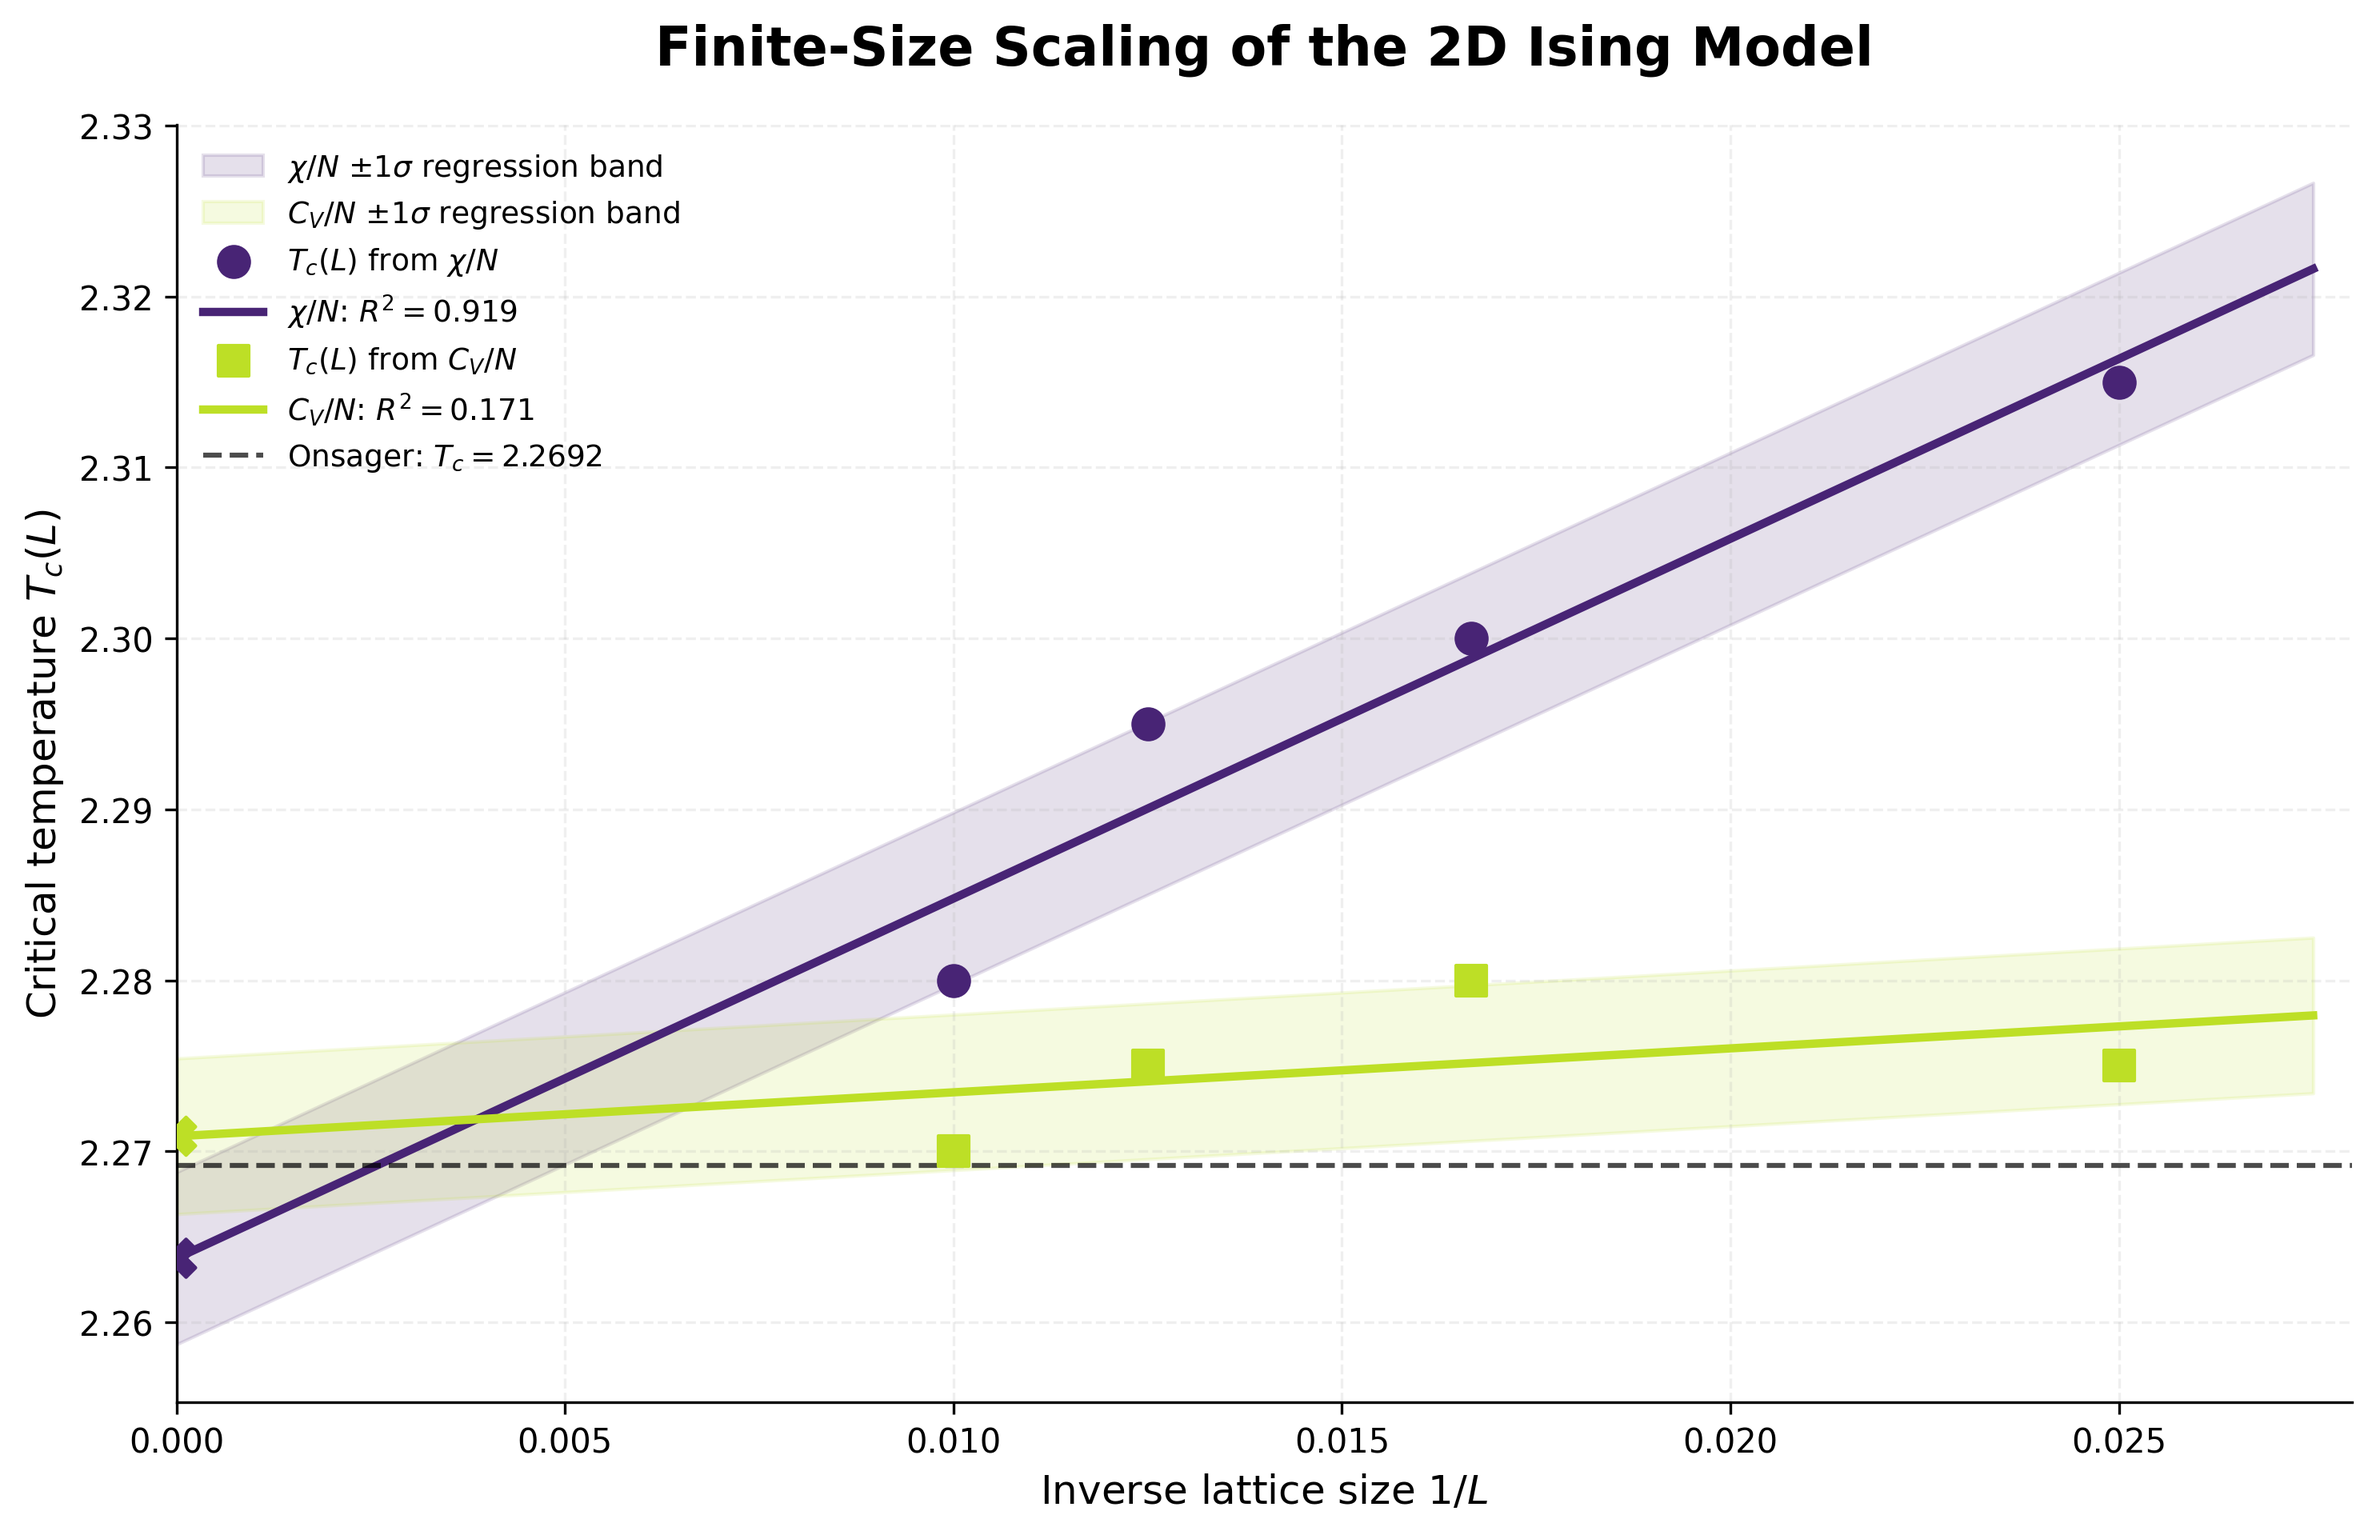
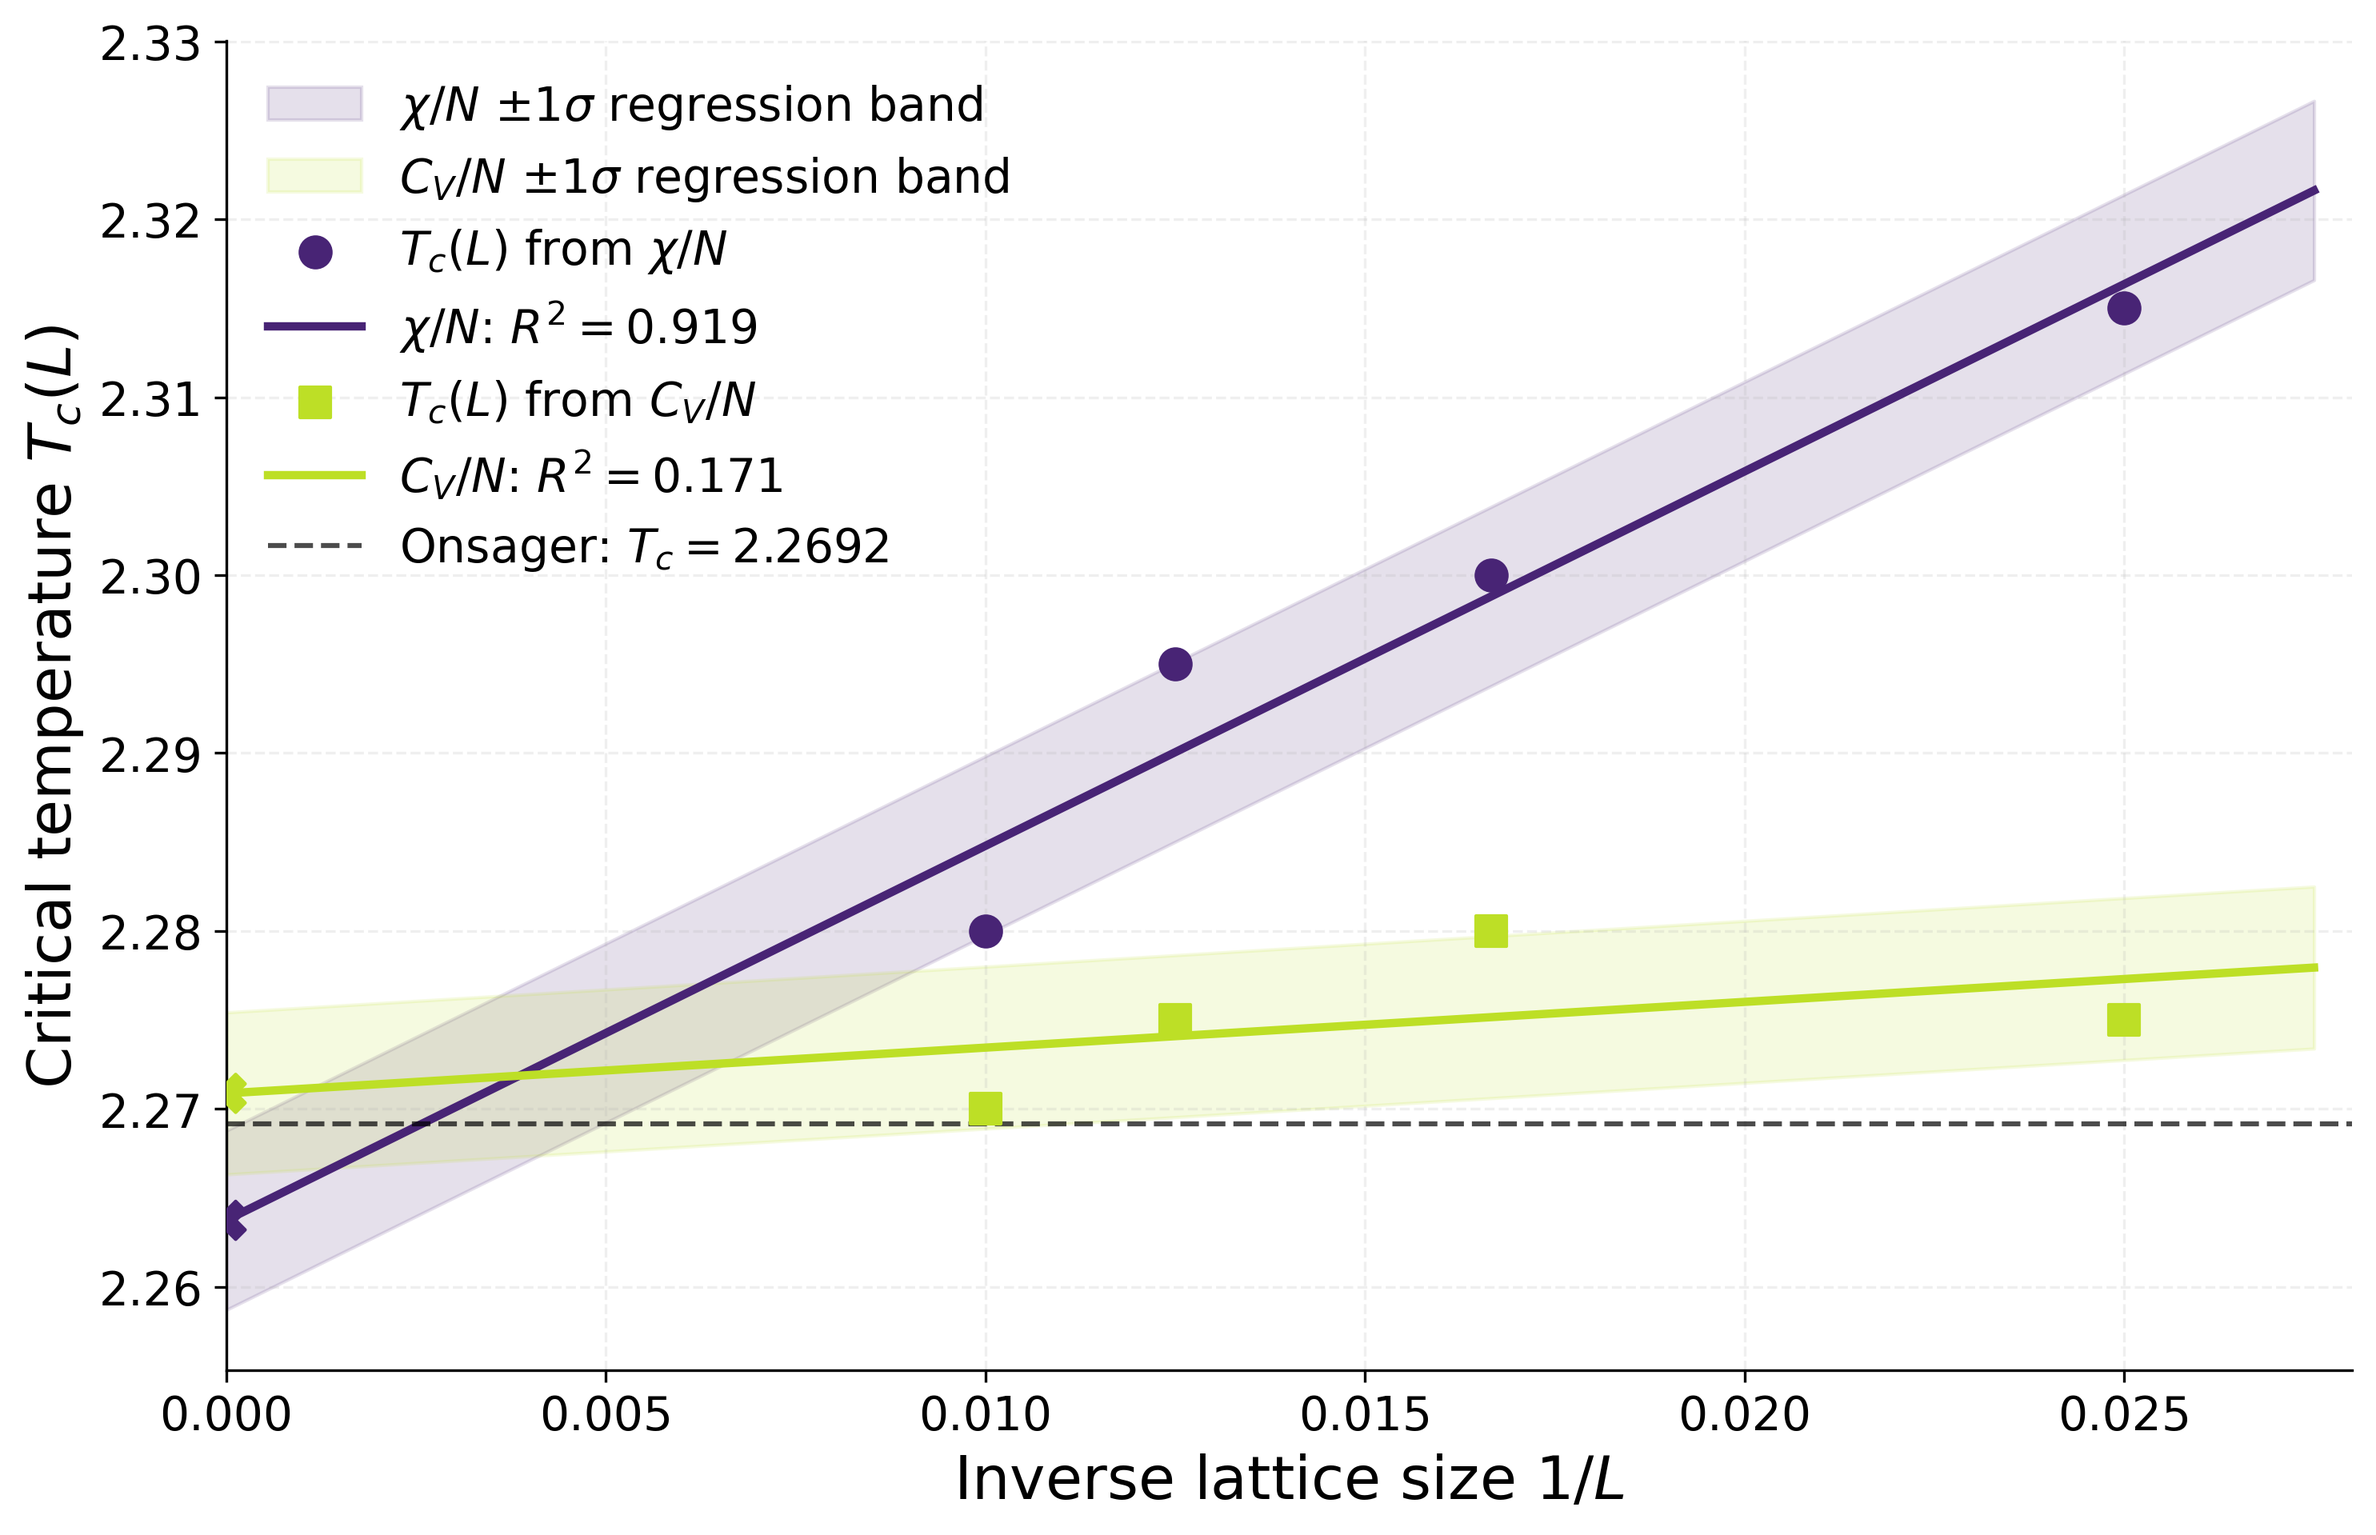
increased font size

diff --git a/Lenz-Ising-Model/Code /task 9 plots /lin_plot_Tc.py b/Lenz-Ising-Model/Code /task 9 plots /lin_plot_Tc.py
@@ -178,26 +178,26 @@ ax.axhline(
     label=fr"Onsager: $T_c={Tc_exact:.4f}$"
 )
 
-ax.set_title(
+'''ax.set_title(
     "Finite-Size Scaling of the 2D Ising Model",
     fontsize=16,
     fontweight="bold",
     pad=18
-)
+)'''
 
-ax.set_xlabel(r"Inverse lattice size $1/L$", fontsize=12)
-ax.set_ylabel(r"Critical temperature $T_c(L)$", fontsize=12)
+ax.set_xlabel(r"Inverse lattice size $1/L$", fontsize=18)
+ax.set_ylabel(r"Critical temperature $T_c(L)$", fontsize=18)
 
 ax.set_xlim(left=0, right=inverse_L.max() * 1.12)
 
 ax.grid(alpha=0.2, linestyle="--")
-ax.legend(frameon=False, fontsize=9)
+ax.legend(frameon=False, fontsize=14)
 
 ax.spines["left"].set_position(("data", 0))
 ax.spines["top"].set_visible(False)
 ax.spines["right"].set_visible(False)
 
-ax.tick_params(axis="both", labelsize=10)
+ax.tick_params(axis="both", labelsize=14)
 
 fig.tight_layout()
 
